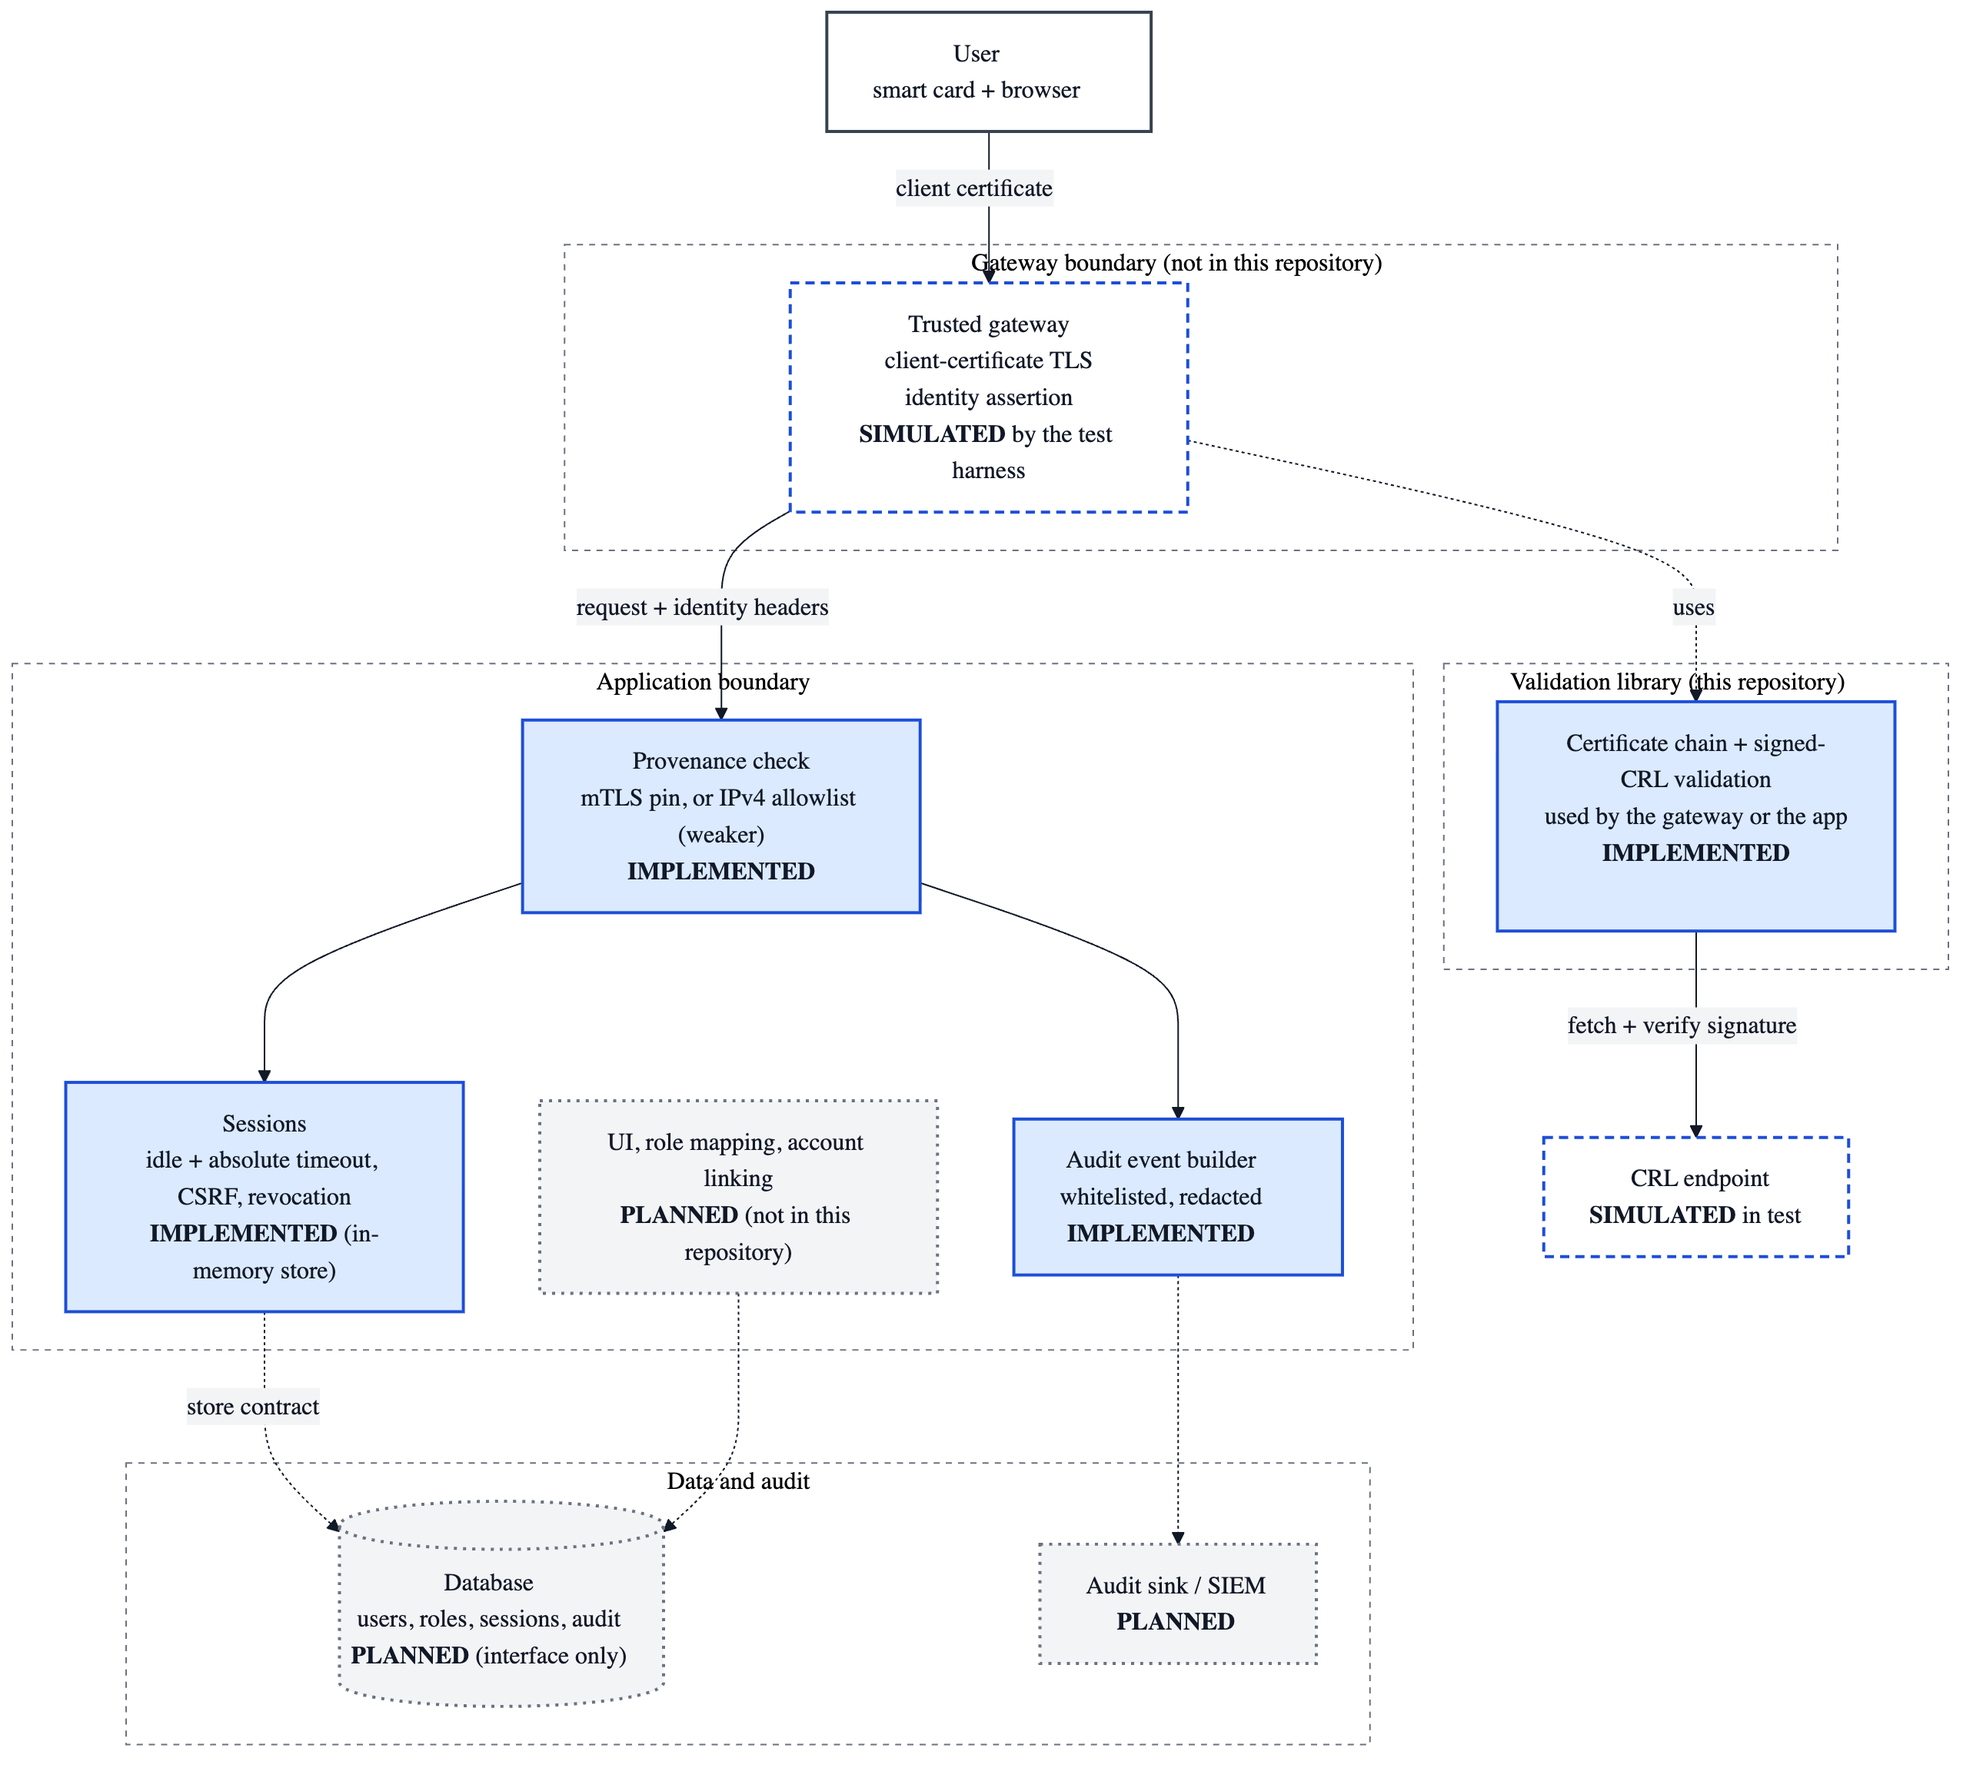
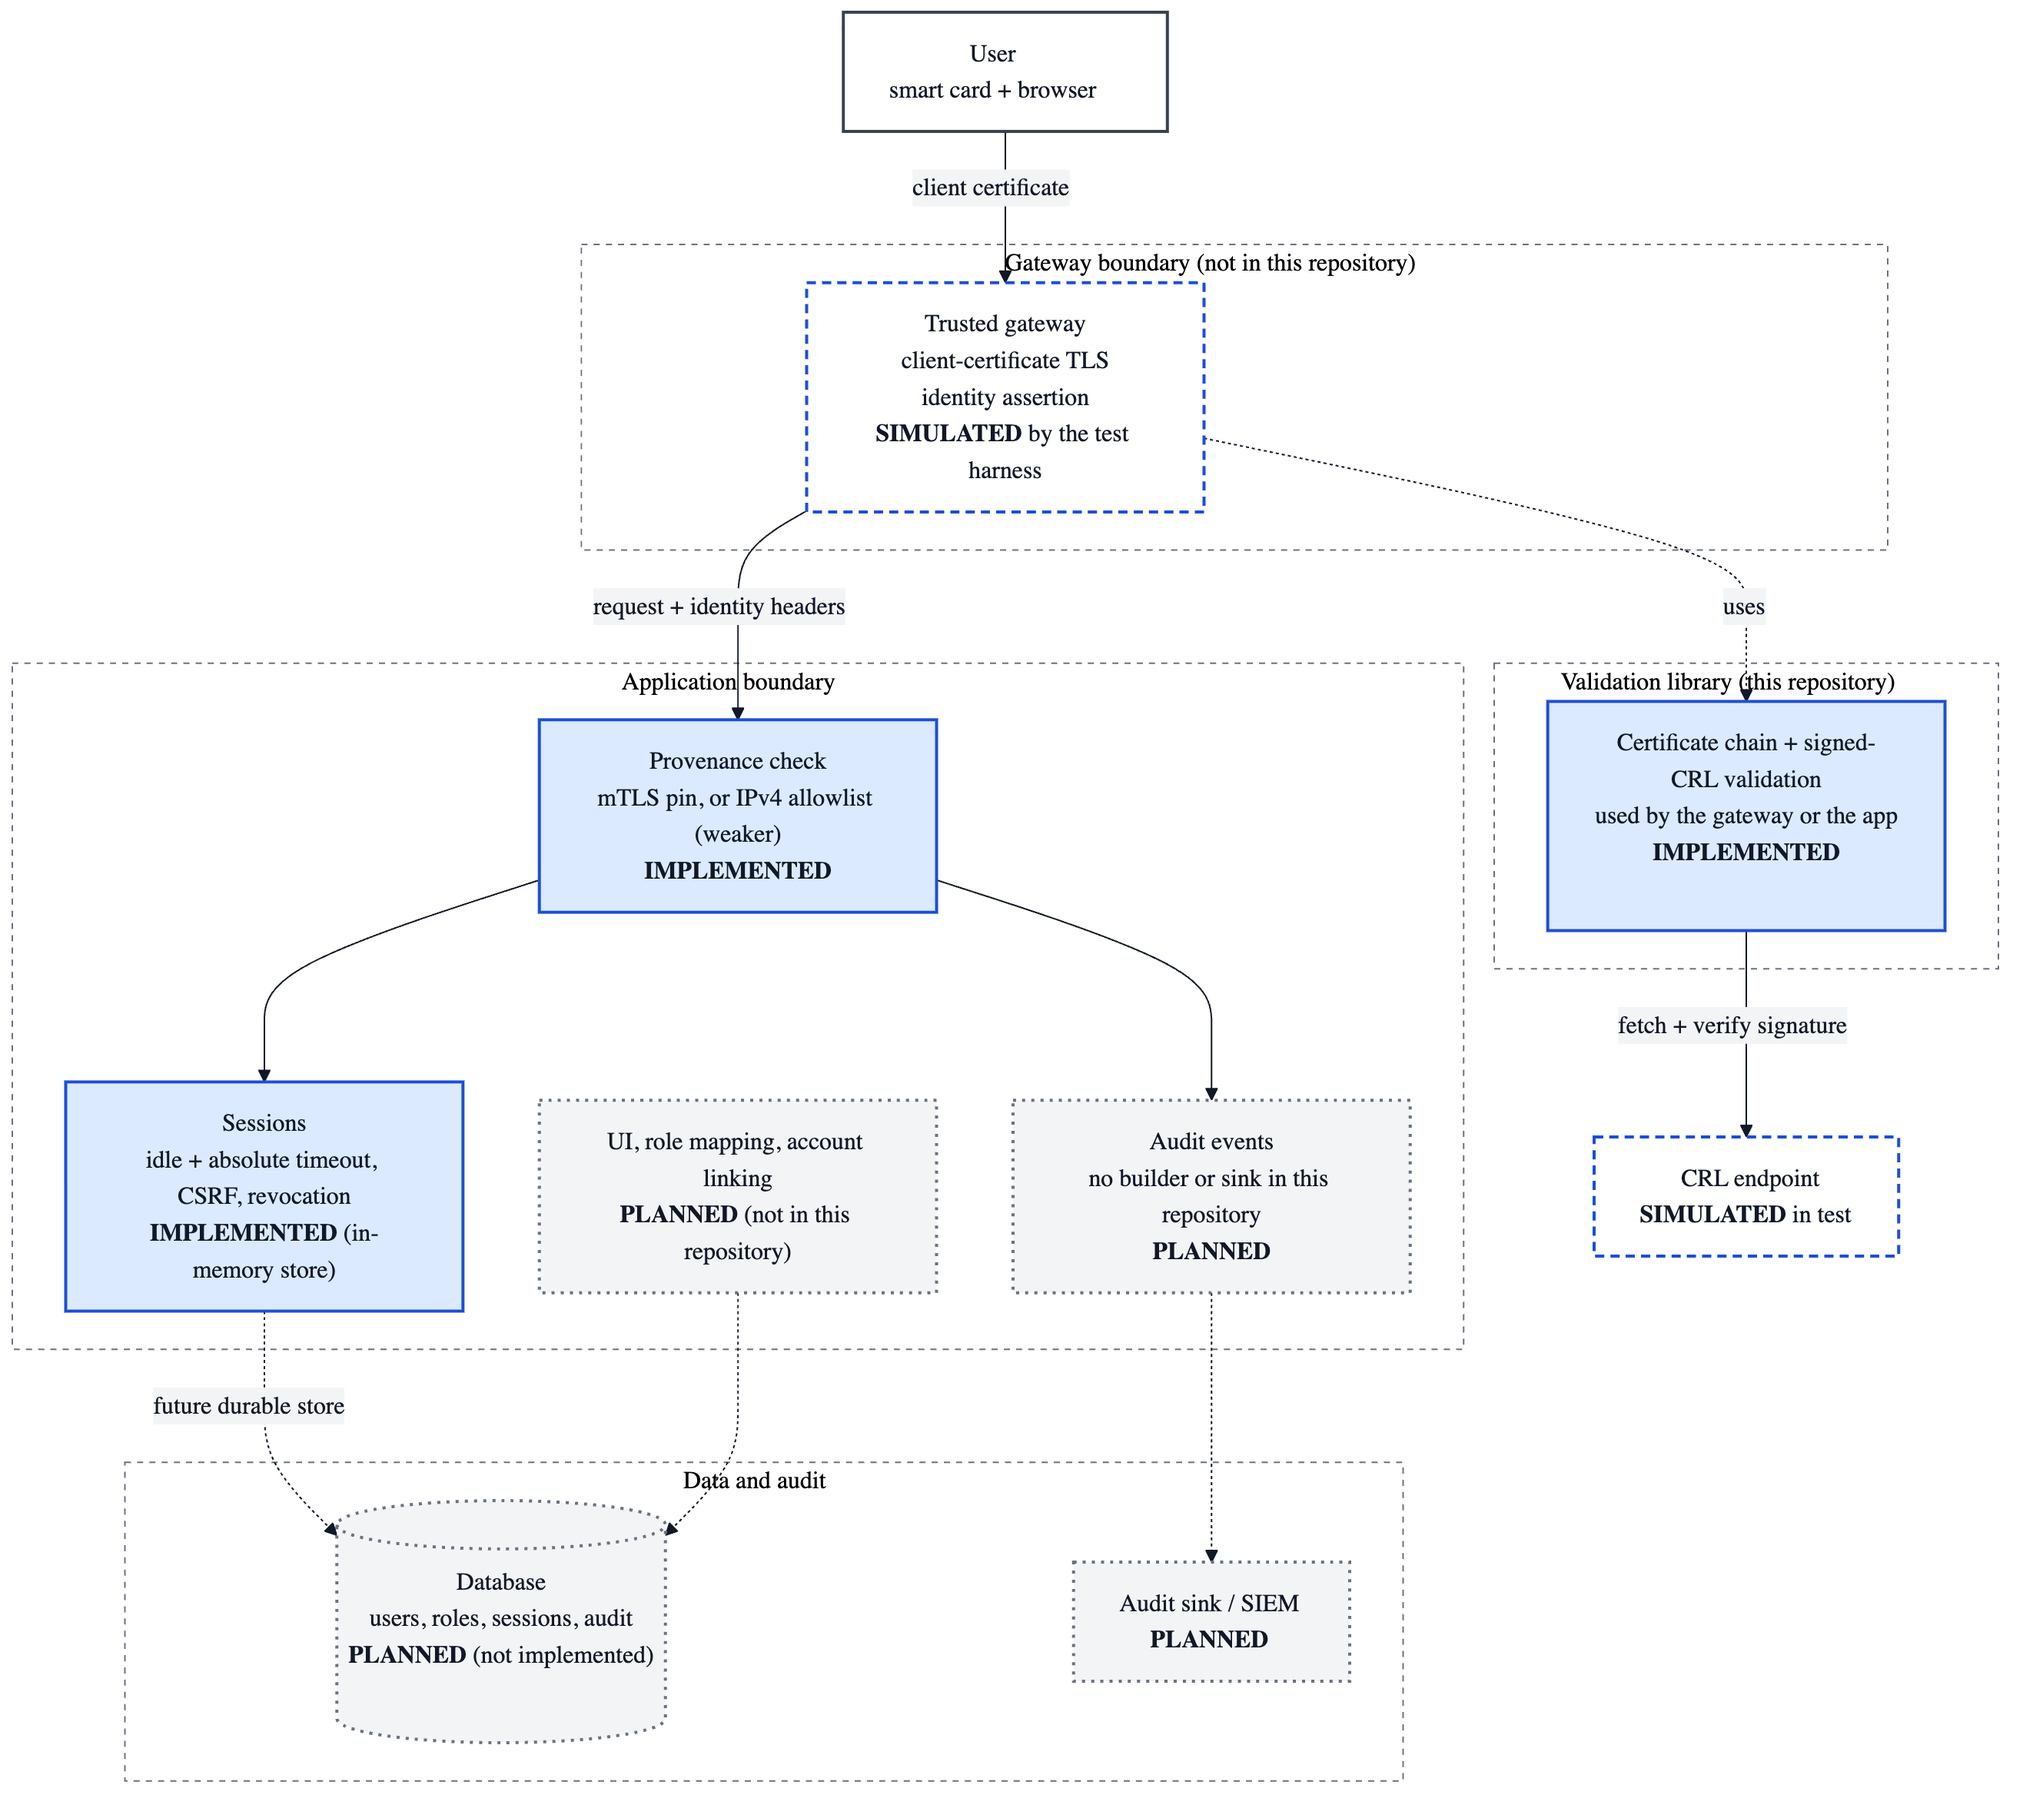
docs: correct status labels to match committed code (no audit builder; CI gates as configured)

diff --git a/docs/architecture/README.md b/docs/architecture/README.md
@@ -16,7 +16,7 @@ This is the public, educational reference. A separate private engineering lab ex
 
 ![System and data architecture](01-system-and-data.png)
 
-The validation library is reusable at whichever boundary performs certificate validation (a gateway, or the application itself). The database and audit sink are interfaces only; no persistence is implemented here. Source: [`01-system-and-data.mmd`](01-system-and-data.mmd) · [SVG](01-system-and-data.svg)
+The validation library is reusable at whichever boundary performs certificate validation (a gateway, or the application itself). Persistence and audit logging are not implemented here; sessions use an in-memory store. Source: [`01-system-and-data.mmd`](01-system-and-data.mmd) · [SVG](01-system-and-data.svg)
 
 ## 2. CAC login sequence
 
@@ -45,7 +45,7 @@ Source: [`03-trust-boundaries.mmd`](03-trust-boundaries.mmd) · [SVG](03-trust-b
 
 Claude builds, CI gates, Codex reviews the exact commit independently, a human approves; deployment is never automated by this process. A new commit after a review needs a new review. Source: [`04-delivery-workflow.mmd`](04-delivery-workflow.mmd) · [SVG](04-delivery-workflow.svg)
 
-CI in this repository today: typecheck, unit, security and certificate tests, the offline demo, and CodeQL. The independent-review and approval steps are a development process, not something this repository enforces; branch protection and required reviews are repository settings.
+CI in this repository today: typecheck, unit, security and certificate tests, the offline demo, and CodeQL. (No secret scanning, container scanning or dependency audit is configured here; see the README.) The independent-review and approval steps are a development process, not something this repository enforces; branch protection and required reviews are repository settings.
 
 ## Regenerating
 

diff --git a/ROADMAP.md b/ROADMAP.md
@@ -9,7 +9,7 @@ Status of this **public reference** only. Nothing here is a commitment, a schedu
 | Header provenance: mTLS pin | Implemented, tested | |
 | Header provenance: IPv4 allowlist | Implemented, tested, **weaker mode** | A network position does not authenticate who set a header |
 | Sessions: idle/absolute timeout, CSRF, revocation | Implemented, tested | In-memory store only |
-| Audit event builder | Implemented, tested | Redacted, whitelisted; no sink |
+| Audit event builder and sink | Planned | Not in the committed code; no audit logging exists in this repository today |
 | OCSP | Planned | |
 | Authenticated gateway assertion (signed identity, freshness, replay protection) | Planned | Replaces network-position provenance for non-mTLS deployments. The IPv4 allowlist mode is expected to be demoted or removed once this exists. |
 | Durable session store and audit sink reference | Planned | Interfaces only today |
